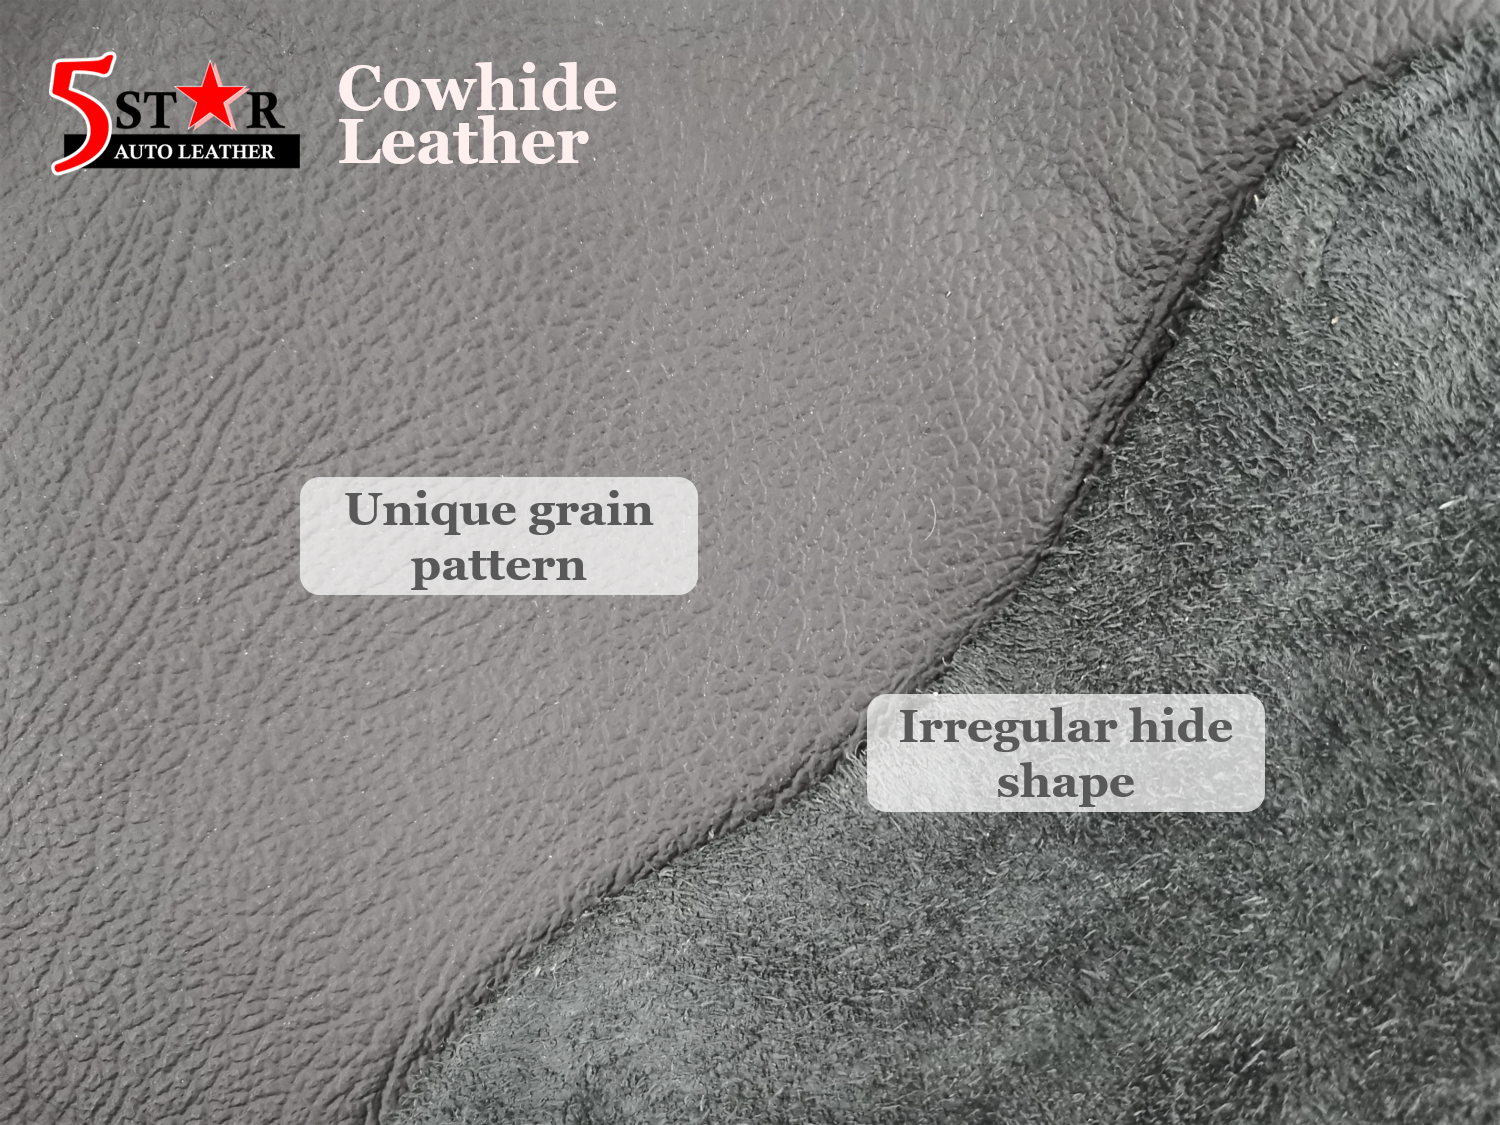
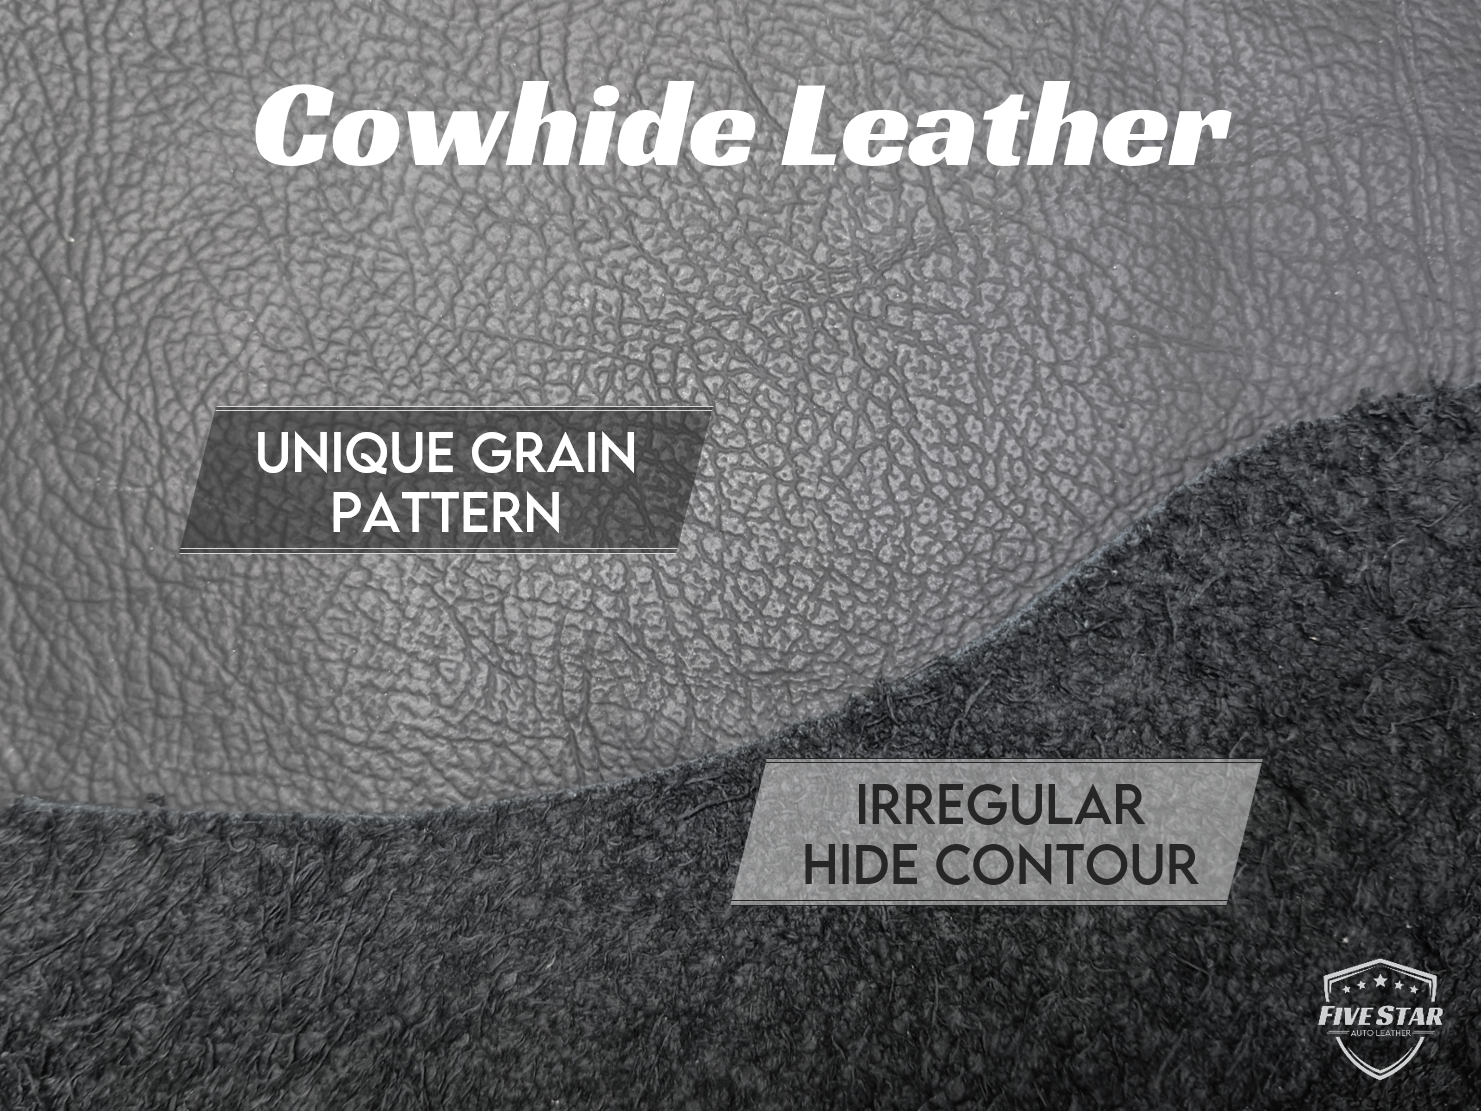
feat: update types of car leather article

diff --git a/src/pages/blog/types-of-car-leather.md b/src/pages/blog/types-of-car-leather.md
@@ -1,18 +1,20 @@
 ---
 layout: /src/layouts/BlogArticleLayout.astro
 title: '3 Types of Car Leather and How to Identify Them'
-description: 'From PVC to genuine cowhide, discover how to tell car leather types apart and choose the best one for your needs, budget, and lifestyle.'
-publishedDate: 2020-07-01
+description: 'Explore the key characteristics of common car upholstery materials, and learn how to identify each one like a pro.'
+publishedDate: 2025-11-01
 readingTime: 5
 cover: '/src/assets/blog/types-of-car-leather.png'
 coverAlt: 'Types of car leather'
 ---
 
-Let’s face it – the world of leather is complicated, and plain folks like us are definitely not specialists who can name its every molecular component. But we definitely know enough to help you avoid being led by the nose by any car salesperson. Let us share handy facts about the main types of automotive leather available on the Singapore market and how to identify them yourself 😊
+Let’s face it — the world of car leather can be confusing. Most of us aren’t experts who can name every chemical or molecular detail, and you shouldn’t have to do. What you _do_ need is enough knowledge to avoid getting sweet-talked by salespeople and to choose the right material for your lifestyle.
+
+Here’s a clear, easy guide to the main types of automotive leather available in Singapore, and how to tell them apart yourself.
 
 ## 1. PVC
 
-As you have probably read from our article [A Guide to Car Leather Upholstery in Singapore](/blog/guide-to-car-leather-upholstery), PVC is the most affordable option on the market. This material is made out of a fabric base topped with a layer of Polyvinyl Chloride (thus the name PVC) which is a synthetic plastic polymer. PVC is usually requested for pick-up trucks, vans and rental cars which have to endure heavy duty use.
+PVC is the most affordable option on the market. It is made out of a fabric base topped with a layer of Polyvinyl Chloride (thus the name PVC) which is a synthetic plastic polymer. It is the go-to option for commercial vehicles and rental fleets that need durability without the cost.
 
 <table>
   <tbody>
@@ -20,9 +22,9 @@ As you have probably read from our article [A Guide to Car Leather Upholstery in
       <td>Look & Feel</td>
       <td>
         <ul>
-          <li>Can have clear grain patterns like leather</li>
-          <li>Has a plastic unnatural feel and may feel stiff or harder than other materials</li>
-          <li>Tends to get hot fast</li>
+          <li>Leather-like grain but slightly artificial finish</li>
+          <li>Firmer and more plastic to touch</li>
+          <li>Heats up quickly under the sun</li>
         </ul>
       </td>
     </tr>
@@ -30,7 +32,7 @@ As you have probably read from our article [A Guide to Car Leather Upholstery in
       <td>Maintenance</td>
       <td>
         <ul>
-          <li>Minimal maintenance</li>
+          <li>Extremely low maintenance</li>
           <li>Spill proof and easy to clean</li>
         </ul>
       </td>
@@ -38,28 +40,24 @@ As you have probably read from our article [A Guide to Car Leather Upholstery in
     <tr>
       <td>Durability</td>
       <td>
-        <p>Contrary to popular belief, PVC can be pretty hardy! Quality PVC can endure a lot of abuse such as scratches and abrasions</p>
-        <p>At Five Star, we import high quality PVC with a thickness of 1.1mm (thickness usually ranges from 0.8 to 1.2mm)</p>
+        <p>PVC is tougher than its reputation — it handles scratches, abrasions, and rough daily use well. But when it finally wears out, PVC typically shows damage by cracking and peeling.</p>
+        <p>At Five Star, we use 1.1mm high quality PVC, thicker and sturdier than typical market versions.</p>
       </td>
-    </tr>
-    <tr>
-      <td>Affordability</td>
-      <td>$</td>
     </tr>
   </tbody>
 </table>
 
-![PVC](../../assets/blog/pvc.png)
+### How to Identify PVC Leather
 
-> **How to Identify PVC?**
->
-> The fabric backing (see picture above) is the first telltale sign. The second identifying factor is the feel – if you rub your fingers across the surface, the plastic rubbery feeling of PVC is distinctive.
+- 🧵 Fabric backing
+- 🧤 Plastic–rubbery touch
+- 🔁 Uniform, slightly artificial grain
 
-## 2. Microfiber Leather
+![PVC leather](../../assets/blog/pvc.png)
 
-Microfiber leather is a synthetic alternative built to resemble the touch and feel of cowhide leather. This material has a base of ultra-fine bundles of microfibers coated with high performance polyurethane resins. With the latest advances in technology, there’s very little to distinguish it from its cowhide counterpart.
+## 2. Cowhide Leather
 
-Microfiber leather’s greatest advantage is that you don’t have to compromise on a refined car interior, while at the same time it is cost effective and you can proudly say “No animals were harmed in the making of this car interior!" 🐄
+Cowhide leather car interiors are increasingly uncommon these days. While we do not discount the advantages of cowhide, the prevalence of high-quality eco-friendly alternatives have made even the luxury car manufacturers rethink their strategies – just check out Artico leather used by Mercedes and Nuluxe by Lexus.
 
 <table>
   <tbody>
@@ -67,9 +65,10 @@ Microfiber leather’s greatest advantage is that you don’t have to compromise
       <td>Look & Feel</td>
       <td>
         <ul>
-          <li>Looks and feels like cowhide leather with a clear and uniform grain</li>
-          <li>Soft and lightweight</li>
-          <li>Available in many vibrant colors</li>
+          <li>Soft, strong and premium to the touch</li>
+          <li>Naturally breathable</li>
+          <li>Lower grade hides may show scars or flaws</li>
+          <li>Colors tend to be more muted than synthetics</li>
         </ul>
       </td>
     </tr>
@@ -77,72 +76,81 @@ Microfiber leather’s greatest advantage is that you don’t have to compromise
       <td>Maintenance</td>
       <td>
         <ul>
-          <li>Minimal maintenance</li>
-          <li>Spill proof and easy to clean</li>
+          <li>Requires proper leather cleaners & conditioners</li>
+          <li>Needs routine care to stay supple</li>
         </ul>
       </td>
     </tr>
     <tr>
       <td>Durability</td>
-      <td>Quality microfiber leather can last for years – the fineness of microfibers creates not only flexibility, but also durability. Furthermore, high performance synthetic coatings nowadays can engineer superior properties such abrasion resistance, improved air permeability or even anti-UV ray!</td>
-    </tr>
-    <tr>
-      <td>Affordability</td>
-      <td>$$</td>
+      <td>Top grade cowhide can last for a long time. With proper conditioning, it develops a rich patina over time. But if neglected, it can dry out and eventually crack, especially under constant sunlight and daily contact with human sweat.</td>
     </tr>
   </tbody>
 </table>
 
-> Note that automotive microfiber leather shouldn’t be confused with ordinary polyurethane (PU) leather typically used for furniture making. Ordinary PU leather has a fabric base like PVC, and the quality of PU resin used is generally of a lower quality.
+### How to Identify Cowhide Leather
 
-![Microfiber leather](../../assets/blog/microfiber.png)
-
-> **How to Identify Microfiber Leather?**
->
-> By touch, you should find it hard to distinguish microfiber leather from cowhide leather. By sight, there are two obvious signs due to the fact that it is a man-made material – (1) the grain is consistent throughout, and (2) the actual leather stock is stored in rolls like fabric and measured in meters.
->
-> **Special Tip: How to Identify QUALITY Microfiber Leather?**
->
-> Fold the leather like you’re folding paper. For quality microfiber leather, the crease should disappear fast and is not noticeable after recovering.
-
-## 3. Cowhide Leather
-
-Cowhide leather car interiors are increasingly uncommon these days. While we do not discount the advantages of cowhide, the prevalence of cost effective high-quality alternatives and the trend that people are getting more environmentally conscious have made even the luxury car manufacturers rethink their strategies – just check out Artico leather used by Mercedes and Nuluxe by Lexus.
-
-<table>
-  <tbody>
-    <tr>
-      <td>Look & Feel</td>
-      <td>
-        <ul>
-          <li>Soft yet strong, comfortable and luxurious to touch</li>
-          <li>More breathable due to the porous nature of animal hides</li>
-          <li>Lower quality cowhide may have visible flaws or scarring</li>
-          <li>Colors may not be as vibrant as synthetic alternatives</li>
-        </ul>
-      </td>
-    </tr>
-    <tr>
-      <td>Maintenance</td>
-      <td>
-        <ul>
-          <li>Requires specialist cleaning and conditioning products</li>
-        </ul>
-      </td>
-    </tr>
-    <tr>
-      <td>Durability</td>
-      <td>
-        <p>Quality cowhide leather can last for a very long time, but it can be hard to identify the quality or grade of it without proper research or experience in the field.</p>
-        <p>While synthetic material will eventually start to crack or peel, quality cowhide will develop a patina from aging instead.</p>
-    </tr>
-    <tr>
-      <td>Affordability</td>
-      <td>$$$</td>
-    </tr>
-  </tbody>
-</table>
+- 👃 Chemical tanning smell
+- 👀 Irregular, natural grain
+- 🐄 Comes in hides, not rolls
 
 ![Cowhide leather](../../assets/blog/cowhide.png)
 
-Ultimately, each type of material has its pros and cons. We recommend dropping by a couple of car leather upholstery workshops to feel their leather samples in person. Take time to consider your needs and budget before deciding on an important purchase which you will have to live with for years.
+## 3. Microfiber Leather
+
+Microfiber leather is a next-gen vegan alternative that replicates the premium look and feel as cowhide, minus the cruelty, maintenance hassles and environmental footprint.
+
+At Five Star, we specialise exclusively in top-tier automotive-grade microfiber leather. Crafted from ultra-fine fibres coated with high performance polyurethane resins, our leather is not only soft and supple to touch, but also clean to clean, UV- and scratch-resistant – engineered for modern car interiors.
+
+<table>
+  <tbody>
+    <tr>
+      <td>Look & Feel</td>
+      <td>
+        <ul>
+<li>Soft, supple and lightweight</li>
+<li>Very similar to cowhide with a uniform grain</li>
+<li>Vibrant, consistent colors</li>
+        </ul>
+      </td>
+    </tr>
+    <tr>
+      <td>Maintenance</td>
+      <td>
+        <ul>
+          <li>Minimal maintenance</li>
+          <li>Spill proof and easy to clean</li>
+        </ul>
+      </td>
+    </tr>
+    <tr>
+      <td>Durability</td>
+      <td>
+        <p>Quality microfiber leather is flexible yet strong. It doesn’t crack – instead, it gradually wears down with years of use. Plus, modern high-performance coatings also enhance:</p>
+        <ul>
+          <li>Scratch & abrasion resistance</li>
+          <li>Stain resistance</li>
+          <li>UV protection</li>
+          <li>Air permeability</li>
+        </ul>
+    </tr>
+  </tbody>
+</table>
+
+> ⚠ **Note:** Do not confuse microfiber leather with PU leather used for furniture. PU has a fabric base and lower-grade resin that can’t survive sun exposure and high heat inside a car.
+
+### How to Identify Microfiber Leather
+
+- ✋ Soft, natural touch
+- 🔍 Consistent, flawless grain
+- 📏 Supplied in fabric-style rolls
+
+![Microfiber leather](../../assets/blog/microfiber.png)
+
+> 🎥 See how tough our leather really is in our [Stress Test Reel](https://www.facebook.com/reel/1269788776699954).
+
+## Final Words
+
+Leather is personal — it’s about what feels right, and how it fits into your daily life. Each material has something different to offer, so take the time to experience it yourself. Visit workshops, feel the textures, and imagine it in your car.
+
+<!-- 💬 **Need expert advice?** Consult us (link: Contact Us page) to find the perfect leather for your car -->
